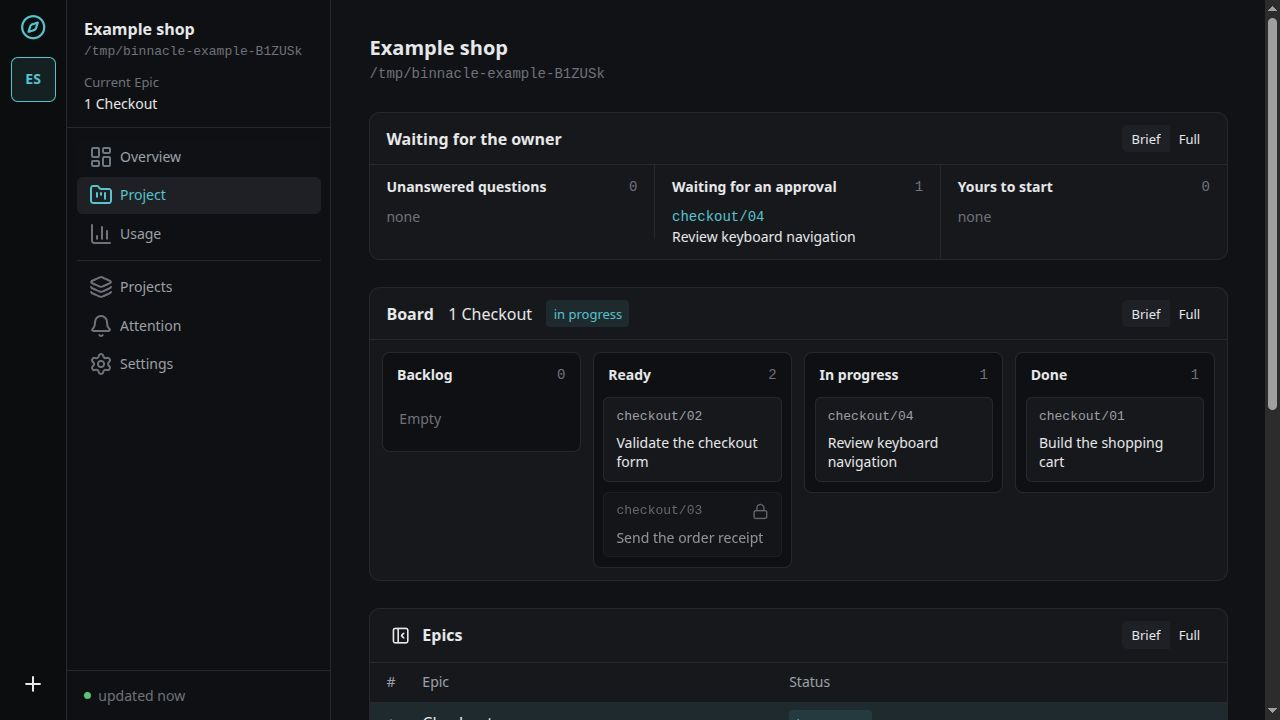
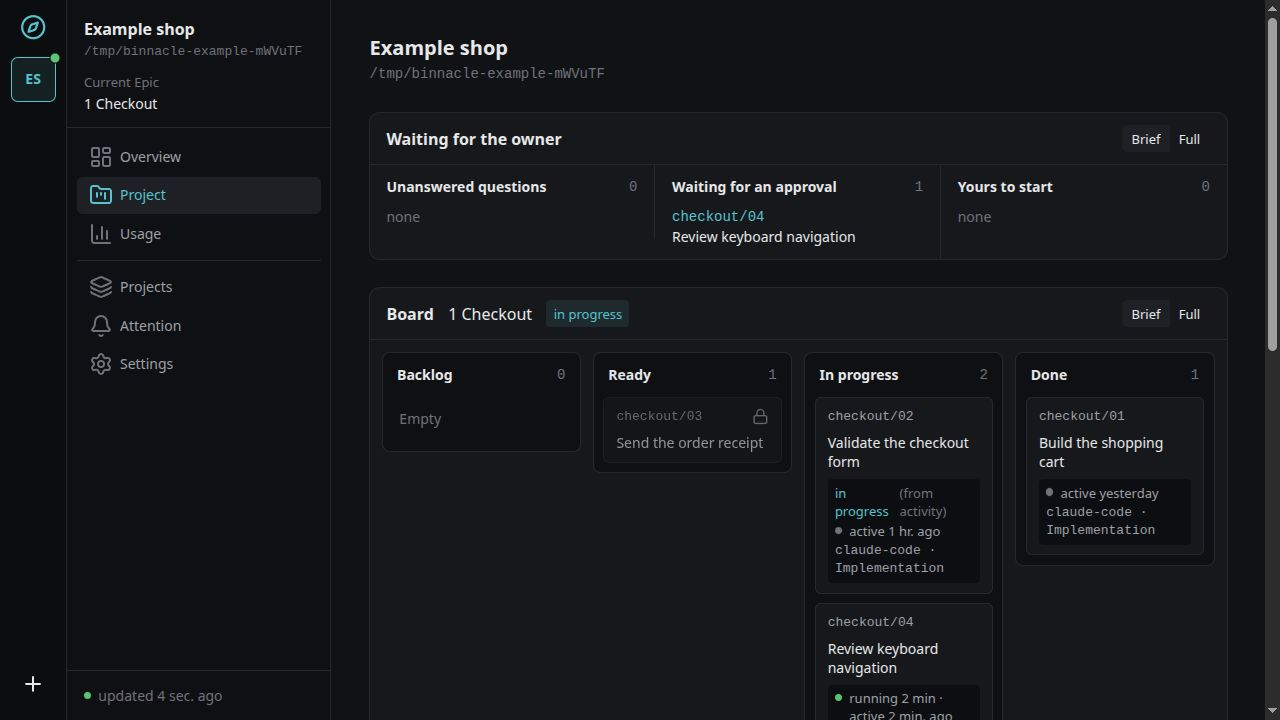
Replace the hero wave with the dashboard and restore four views

diff --git a/.vitepress/theme/LandingTour.vue b/.vitepress/theme/LandingTour.vue
@@ -1,39 +1,44 @@
 <script setup lang="ts">
 import { computed, ref } from 'vue'
 import { useData } from 'vitepress'
+import overviewLight from '../../assets/tour/overview-light.jpg'
+import overviewDark from '../../assets/tour/overview-dark.jpg'
 import boardLight from '../../assets/tour/board-light.jpg'
 import boardDark from '../../assets/tour/board-dark.jpg'
-import taskLight from '../../assets/tour/task-light.jpg'
-import taskDark from '../../assets/tour/task-dark.jpg'
-import commandLight from '../../assets/tour/command-light.jpg'
-import commandDark from '../../assets/tour/command-dark.jpg'
+import usageLight from '../../assets/tour/usage-light.jpg'
+import usageDark from '../../assets/tour/usage-dark.jpg'
+import attentionLight from '../../assets/tour/attention-light.jpg'
+import attentionDark from '../../assets/tour/attention-dark.jpg'
 
 const { lang } = useData()
 const selected = ref(0)
 const copy = computed(() => lang.value.startsWith('ru') ? {
-  kicker: 'От плана к работе', title: 'Выберите задачу. Передайте её агенту.',
-  intro: 'Пример: в интернет-магазине готова корзина. Следующий шаг — проверка формы заказа. Выберите шаг, чтобы посмотреть, как это устроено.',
+  kicker: 'Что показывает Binnacle', title: 'Задачи, расход и активность агентов.',
+  intro: 'Выберите раздел: каждый экран отвечает на свой вопрос о работе над проектом.',
   steps: [
-    { title: 'Найдите задачу, которую можно начать', text: 'Доска показывает готовность и зависимости. Проверку формы уже можно делать; отправка чека ждёт её завершения.', alt: 'Доска Example shop: проверка формы готова к старту, отправка чека заблокирована зависимостью.' },
-    { title: 'Проверьте требования и контекст', text: 'В карточке — условия задачи, критерии готовности, зависимость и ссылка на спецификацию. Всё прочитано из файлов проекта.', alt: 'Карточка проверки формы с выполненной зависимостью, ролями и критериями готовности.' },
-    { title: 'Скопируйте команду в чат агента', text: 'Вы запускаете навык в новой сессии. Binnacle передаёт агенту бриф задачи, чтобы ему не пришлось восстанавливать план по переписке.', alt: 'Команда навыка для выбранной задачи и подтверждение её копирования.' },
+    { title: 'Обзор — что делать дальше', text: 'Следующий шаг из плана, прогресс эпика и задачи, которые уже можно начать.', alt: 'Обзор Binnacle: следующий шаг, прогресс эпика, готовые задачи и текущая работа.' },
+    { title: 'Задачи — что готово и что ждёт', text: 'Доска задач с зависимостями и состояниями. Отдельно видно, где требуется ваше решение.', alt: 'Доска задач Binnacle с колонками готовности, работы и завершения.' },
+    { title: 'Расход — куда уходят токены', text: 'Входные и выходные токены, кеш, разбивка по моделям и задачам. Отсутствующие метрики отмечены как «нет данных».', alt: 'Расход Binnacle: токены по видам, моделям и задачам на демонстрационных данных.' },
+    { title: 'Внимание — что требует проверки', text: 'Проблемы по проектам, текущие и недавние запуски. Можно увидеть, где работа остановилась или требует вмешательства.', alt: 'Внимание Binnacle: проблемы проектов, текущие и недавние запуски.' },
   ],
-  sample: 'Настоящий интерфейс · пример проекта', enlarge: 'Открыть снимок крупнее ↗',
+  sample: 'Настоящий интерфейс · демонстрационные данные', enlarge: 'Открыть снимок крупнее ↗',
 } : {
-  kicker: 'From plan to implementation', title: 'Choose a task. Hand it to your agent.',
-  intro: 'An example shop has a working cart. Checkout validation is next. Select a step to see how the handoff works.',
+  kicker: 'Inside Binnacle', title: 'Tasks, token usage and agent activity.',
+  intro: 'Choose a section. Each screen answers a different question about the work.',
   steps: [
-    { title: 'Find a task that is ready to start', text: 'The board shows readiness and dependencies. Checkout validation can start; the receipt must wait until it is done.', alt: 'Example shop board: checkout validation is ready; sending the receipt is blocked by a dependency.' },
-    { title: 'Check the requirements and context', text: 'The task brings together acceptance criteria, a dependency and its specification. All read from the project files.', alt: 'Checkout validation task with its completed dependency, roles and acceptance criteria.' },
-    { title: 'Copy the command into your agent’s chat', text: 'You run the skill in a fresh session. Binnacle supplies a task brief so the agent can pick up the plan without reconstructing it from chat history.', alt: 'The skill command for the selected task, with confirmation that it was copied.' },
+    { title: 'Overview — what to do next', text: 'The next action from your plan, epic progress and tasks that are ready to start.', alt: 'Binnacle overview: next action, epic progress, ready tasks and current work.' },
+    { title: 'Tasks — what is ready and what is waiting', text: 'A task board with dependencies and states. Decisions waiting for you are shown separately.', alt: 'Binnacle task board with ready, in-progress and completed work.' },
+    { title: 'Usage — where tokens go', text: 'Input, output and cached tokens, broken down by model and task. Missing metrics stay marked as no data.', alt: 'Binnacle usage: tokens by kind, model and task using sample data.' },
+    { title: 'Attention — what needs checking', text: 'Project issues, current runs and recent activity. See where work has stalled or needs your involvement.', alt: 'Binnacle attention: project issues, current runs and recent activity.' },
   ],
-  sample: 'Actual interface · example project', enlarge: 'Open full-size screenshot ↗',
+  sample: 'Actual interface · sample data', enlarge: 'Open full-size screenshot ↗',
 })
-// CSS follows VitePress's root theme class before hydration as well as after a manual switch.
+// Follow the site's selected theme before hydration and after a manual switch.
 const images = [
+  { light: overviewLight, dark: overviewDark },
   { light: boardLight, dark: boardDark },
-  { light: taskLight, dark: taskDark },
-  { light: commandLight, dark: commandDark },
+  { light: usageLight, dark: usageDark },
+  { light: attentionLight, dark: attentionDark },
 ]
 </script>
 
@@ -58,7 +63,7 @@ const images = [
             <img :src="images[selected]![theme]" :alt="copy.steps[selected]!.alt" loading="lazy" width="1280" height="720">
           </a>
         </div>
-        <figcaption><span>0{{ selected + 1 }} / 03</span><a v-for="theme in (['light', 'dark'] as const)" :key="theme" :class="`tour-${theme}`" :href="images[selected]![theme]" target="_blank" rel="noopener">{{ copy.enlarge }}</a></figcaption>
+        <figcaption><span>0{{ selected + 1 }} / 04</span><a v-for="theme in (['light', 'dark'] as const)" :key="theme" :class="`tour-${theme}`" :href="images[selected]![theme]" target="_blank" rel="noopener">{{ copy.enlarge }}</a></figcaption>
       </figure>
     </div>
   </section>

diff --git a/.vitepress/theme/LandingHero.vue b/.vitepress/theme/LandingHero.vue
@@ -1,6 +1,8 @@
 <script setup lang="ts">
 import { computed } from 'vue'
 import { useData, withBase } from 'vitepress'
+import overviewLight from '../../assets/tour/overview-light.jpg'
+import overviewDark from '../../assets/tour/overview-dark.jpg'
 
 const { lang } = useData()
 const copy = computed(() => lang.value.startsWith('ru') ? {
@@ -8,24 +10,22 @@ const copy = computed(() => lang.value.startsWith('ru') ? {
   lead: 'Локальное приложение и набор навыков для работы с ИИ-агентами. Планируйте задачи, передавайте агентам контекст проекта и отслеживайте прогресс и расход токенов.',
   detail: 'Работает с Git, Markdown и вашим трекером. Вы выбираете задачи и запускаете агентов.',
   start: 'Быстрый старт', docs: 'Как это работает',
-  caption: 'Знания проекта сохраняются между сессиями.',
-  diagram: 'Абстрактная композиция из непрерывных слоёв: знания проекта сохраняются, пока работа продолжается.',
+  caption: 'Обзор проекта: следующий шаг, прогресс и текущая работа.',
+  sample: 'Дашборд Binnacle · демонстрационные данные',
+  enlarge: 'Открыть обзор крупнее',
   local: 'На вашем компьютере', portable: 'Markdown · Git · Трекер', control: 'Вы управляете процессом',
 } : {
   title: ['Your control panel', 'for AI development.'],
   lead: 'A local app and a set of skills for working with coding agents. Plan tasks, give agents your project context, and track progress and token usage.',
   detail: 'Works with Git, Markdown and your issue tracker. You choose the tasks and start the agents.',
   start: 'Get started', docs: 'How it works',
-  caption: 'Project knowledge stays between sessions.',
-  diagram: 'An abstract composition of continuous layers: project knowledge persists as the work moves forward.',
+  caption: 'Project overview: the next action, progress and current work.',
+  sample: 'Binnacle dashboard · sample data',
+  enlarge: 'Open the full-size overview',
   local: 'On your machine', portable: 'Markdown · Git · Tracker', control: 'You stay in control',
 })
 const prefix = computed(() => lang.value.startsWith('ru') ? '/ru' : '')
 
-// A single continuous surface; its contours carry no provider names or simulated activity.
-const contours = Array.from({ length: 25 }, (_, layer) =>
-  `M36 ${130 + layer * 5} C180 ${40 + layer * 5} 205 ${335 + layer * 4} 330 ${230 + layer * 4} S490 ${80 + layer * 5} 590 ${145 + layer * 5}`,
-)
 </script>
 
 <template>
@@ -43,25 +43,13 @@ const contours = Array.from({ length: 25 }, (_, layer) =>
       <slot />
     </div>
 
-    <figure class="context-art" aria-labelledby="context-caption">
-      <svg class="context-ribbon" viewBox="0 0 620 460" fill="none" role="img" :aria-label="copy.diagram">
-        <defs>
-          <linearGradient id="context-ink" x1="36" y1="120" x2="590" y2="350" gradientUnits="userSpaceOnUse">
-            <stop class="context-fade" />
-            <stop offset="0.28" class="context-accent" />
-            <stop offset="0.7" class="context-accent" />
-            <stop offset="1" class="context-fade" />
-          </linearGradient>
-          <linearGradient id="context-surface" x1="310" y1="90" x2="310" y2="420" gradientUnits="userSpaceOnUse">
-            <stop class="context-accent" stop-opacity="0.09" />
-            <stop offset="1" class="context-accent" stop-opacity="0" />
-          </linearGradient>
-        </defs>
-        <path d="M36 130 C180 40 205 335 330 230 S490 80 590 145 L590 265 C490 200 455 222 330 326 S180 160 36 250 Z" fill="url(#context-surface)" />
-        <path v-for="(contour, index) in contours" :key="index" :d="contour" stroke="url(#context-ink)" :stroke-width="index % 6 === 0 ? 1.8 : 0.8" :opacity="index % 6 === 0 ? 0.95 : 0.5" />
-        <path d="M95 112 L95 232 M526 118 L526 238" class="context-cross-section" />
-      </svg>
-      <figcaption id="context-caption">{{ copy.caption }}</figcaption>
+    <figure class="hero-preview">
+      <div class="demo-window">
+        <div class="demo-window-bar"><span aria-hidden="true">● ● ●</span><span>{{ copy.sample }}</span></div>
+        <a class="tour-light" :href="overviewLight" target="_blank" rel="noopener" :aria-label="copy.enlarge"><img :src="overviewLight" :alt="copy.caption" width="1280" height="720"></a>
+        <a class="tour-dark" :href="overviewDark" target="_blank" rel="noopener" :aria-label="copy.enlarge"><img :src="overviewDark" :alt="copy.caption" width="1280" height="720"></a>
+      </div>
+      <figcaption>{{ copy.caption }}</figcaption>
     </figure>
   </section>
   <div class="landing-principles">

diff --git a/apps/cli/test/site.test.ts b/apps/cli/test/site.test.ts
@@ -119,6 +119,8 @@ test('the landing explains the product and keeps installation immediately after 
     const hero = page.slice(page.indexOf('<section class="landing-hero"'), page.indexOf('</section>', page.indexOf('<section class="landing-hero"')));
     assert.ok(hero.includes('landing-badges'), `${route}: badges are outside the hero`);
     assert.ok(hero.indexOf('landing-platforms') < hero.indexOf('landing-badges'), `${route}: badges precede platform requirements`);
+    assert.ok(!hero.includes('context-ribbon'), `${route}: unrelated wave remains`);
+    for (const theme of ['light', 'dark']) assert.match(hero, new RegExp(`src="[^"]*overview-${theme}\\.`), `${route}: hero has no ${theme} product preview`);
     assert.ok(!hero.includes('npm i -g'), `${route}: redundant command in the hero`);
     const sections = [...page.matchAll(/<section[^>]*aria-labelledby="([^"]+)"/g)].map((match) => match[1]);
     assert.deepEqual(sections.slice(0, 3), ['landing-title', 'install', 'see-the-work'], `${route}: installation is not the second section`);
@@ -133,10 +135,10 @@ test('the landing explains the product and keeps installation immediately after 
   }
 });
 
-/** The example has a human-controlled sequence and matching light/dark captures. */
-test('the walkthrough provides labelled steps and both themes without an autoplay slideshow', () => {
+/** Four different dashboard pages and their full-size links follow the selected theme. */
+test('the dashboard views provide four distinct pages in both themes', () => {
   const assets = built();
-  for (const shot of ['board', 'task', 'command']) {
+  for (const shot of ['overview', 'board', 'usage', 'attention']) {
     for (const theme of ['light', 'dark'])
       assert.ok(assets.some((file) => new RegExp(`${shot}-${theme}\\.[^/]+\\.jpg$`).test(file)), `missing ${shot} ${theme} capture`);
   }
@@ -145,10 +147,10 @@ test('the walkthrough provides labelled steps and both themes without an autopla
     assert.ok(!page.includes('class="VPHero'), `${route}: oversized hero logo remains`);
     assert.ok(!page.includes('.gif'), `${route}: the old slideshow remains`);
     const steps = [...page.matchAll(/<button[^>]*aria-pressed="(true|false)"[^>]*aria-controls="tour-screen"/g)];
-    assert.equal(steps.length, 3, `${route}: no three accessible walkthrough steps`);
-    assert.deepEqual(steps.map((step) => step[1]), ['true', 'false', 'false']);
+    assert.equal(steps.length, 4, `${route}: no four accessible dashboard views`);
+    assert.deepEqual(steps.map((step) => step[1]), ['true', 'false', 'false', 'false']);
     for (const theme of ['light', 'dark'])
-      assert.match(page, new RegExp(`class="tour-${theme}"[^>]*href="[^"]*board-${theme}\\.`), `${route}: theme-matched full-size link missing`);
+      assert.match(page, new RegExp(`class="tour-${theme}"[^>]*href="[^"]*overview-${theme}\\.`), `${route}: theme-matched full-size link missing`);
     assert.ok(page.includes('id="tour-screen"'), `${route}: step controls target no content`);
   }
 });

diff --git a/.vitepress/theme/style.css b/.vitepress/theme/style.css
@@ -97,12 +97,8 @@
 .landing .landing-platforms { margin: 0; color: var(--vp-c-text-2); font-size: 11px; }
 .landing-platforms > span { padding: 0 5px; color: var(--vp-c-text-3); }
 
-.landing .context-art { min-width: 0; margin: 0; }
-.context-ribbon { display: block; width: 100%; height: auto; }
-.context-accent { stop-color: var(--vp-c-brand-1); }
-.context-fade { stop-color: var(--vp-c-brand-1); stop-opacity: 0.08; }
-.context-cross-section { stroke: var(--vp-c-brand-1); stroke-width: 0.6; opacity: 0.12; }
-.context-art figcaption { margin-top: -20px; color: var(--vp-c-text-2); text-align: center; font-size: 12px; line-height: 1.7; }
+.landing .hero-preview { min-width: 0; margin: 0; }
+.hero-preview figcaption { margin-top: 14px; color: var(--vp-c-text-2); font-size: 12px; line-height: 1.7; }
 
 .landing-principles { display: flex; align-items: center; justify-content: space-between; gap: 20px; padding: 22px 0; border-top: 1px solid var(--vp-c-divider); border-bottom: 1px solid var(--vp-c-divider); color: var(--vp-c-text-2); font-size: 12px; }
 .landing-principles > span { display: flex; align-items: center; gap: 9px; }
@@ -155,7 +151,7 @@
   .landing .landing-hero { grid-template-columns: 1fr; gap: 36px; padding-top: 52px; }
   .landing-intro { max-width: 620px; }
   .landing #landing-title { font-size: clamp(36px, 6vw, 54px); }
-  .landing .context-art { width: 100%; max-width: 540px; justify-self: center; }
+  .landing .hero-preview { width: 100%; max-width: 640px; justify-self: center; }
   .landing .landing-setup { gap: 28px; padding: 28px; }
 }
 @media (max-width: 767px) {
@@ -164,7 +160,7 @@
 @media (max-width: 600px) {
   .landing .vp-doc { padding-bottom: 40px; }
   .landing .landing-hero { padding-top: 40px; padding-bottom: 36px; }
-  .landing .context-art { display: none; }
+  .landing .hero-preview { display: none; }
   .landing .landing-lead { font-size: 17px; }
   .landing .landing-detail { font-size: 14px; }
   .landing .landing-button { gap: 12px; padding: 9px 13px; font-size: 13px; }

diff --git a/docs/specs/showcase-and-launch/issues/15-showcase-landing-graphic.md b/docs/specs/showcase-and-launch/issues/15-showcase-landing-graphic.md
@@ -6,22 +6,22 @@ Blocked by: 09, 10, 11
 Spec: `docs/specs/showcase-and-launch/spec.md`
 Roles: Developer, Reviewer
 
-**What to build:** redesign the English and Russian landing pages around a concrete explanation of the tool and a useful first-use example. This reflects the owner's revised direction on 2026-11-01; it supersedes the earlier compass/provider selector and requirement to keep every screenshot on the landing. Standard documentation stays as it is.
+**What to build:** redesign the English and Russian landing pages around a concrete explanation of the tool and a useful first-use example. This reflects the owner's revised direction on 2026-11-01; it supersedes the earlier compass/provider selector, abstract wave and three-frame task walkthrough. Standard documentation stays as it is.
 
 - [x] The hero names **Binnacle Dev** and describes a local app and agent skills: tasks, portable project context, progress and token usage. Use the favicon mark in the header. Keep the quick start and guide links visible.
-- [x] Replace the compass and provider names with restrained abstract SVG artwork. It carries no controls, simulated activity or invented telemetry; it is omitted on phones to keep installation nearby.
+- [x] Use the actual dashboard overview in the hero, with its light/dark versions. No abstract wave or provider-selector graphic. Omit the hero preview on phones to keep installation nearby; all four dashboard views remain below.
 - [x] The CI/npm/license/Node badges sit directly below the platform line in the hero's text column. Remove its non-copyable inline npm command.
 - [x] Installation is the second section: copyable commands install Binnacle, start its daemon, initialise the current project and open the dashboard. Retain the requirements and autostart port caveat.
-- [x] Replace the automatic slideshow and four-image gallery with one visitor-controlled scenario: find a ready task, check its requirements, copy its start command. Use actual English dashboard captures from a labelled example project, with no personal data or fabricated activity.
-- [x] All three steps and full-size links match the selected light/dark theme. Step controls work with pointer and keyboard and expose selection. No autoplay or new dependency.
+- [x] Show four distinct dashboard pages: Overview, Project (tasks), Usage and Attention. Use actual English captures from an explicitly labelled sample dataset. Do not count a scrolled or cropped version of the same page as a separate view.
+- [x] All four views and full-size links match the selected light/dark theme. View controls work with pointer and keyboard and expose selection. No autoplay or new dependency.
 - [x] Preserve header-aligned content, a 60/40 text/media split on desktop, text before media on phones, and equal content in both languages. At 375 px and 1440 px nothing overflows horizontally.
 - [x] Keep documentation routes and sources, the README's existing media and repository/npm links. Build the site, update its artifact checks and inspect both themes/languages in the browser.
 
 ## Capture notes
 
-`assets/tour/` contains six 1280×720 JPEG captures of the actual dashboard, taken on 2026-11-01. The isolated **Example shop** project uses the local Markdown tracker: cart `DONE`, checkout validation `READY` after the cart, receipt `READY` but waiting for validation, keyboard review `READY_FOR_REVIEW`. It has no agent runs or usage records. The shown `/tmp/binnacle-example-…` path belongs to that disposable sample, not a user's project.
+`assets/tour/` contains eight 1280×720 JPEG captures: Overview, Project, Usage and Attention in light and dark, taken on 2026-11-01. The isolated **Example shop** uses the local Markdown tracker. Three synthetic harness records in disposable Git worktrees supply sample token counts and recent activity; the UI labels these captures **sample data**. They are not measurements of Binnacle's development or claims about an agent's performance. Missing provider and reasoning fields stay unavailable.
 
-The sequence opens Project, opens checkout validation, then scrolls to its start command and copies it. Both themes show the same project and actions; colours come from the dashboard's own theme. Captures are unretouched. The temporary harness uses `startTestDaemon`, a copied dashboard build and browser-only theme/language preferences; it never reads the user's harness sessions or changes their daemon. No capture server is needed by the website.
+Each capture opens a distinct dashboard route at the top of the page. The same overview is reused explicitly in the hero. Both themes use the dashboard's own colours; captures are unretouched. The temporary harness uses `startTestDaemon`, a copied dashboard build and isolated artifact directories, never the user's daemon or sessions. The four discarded task/detail captures were removed. No capture server is needed by the website.
 
 ## Comments
 
@@ -39,10 +39,16 @@ Tickets 12 to 14 remain open by design: this ticket does not implement the indep
 
 Follow-up on the owner's layout corrections: the landing takes the header's maximum width and breakpoint-specific gutters. Browser measurements confirmed equal left and right content edges. The desktop demo has a wider left column for its description and three explanatory points, with the smaller GIF on the right; below 768 px the whole text column precedes the GIF. Both language pages changed together. The rebuilt site's 9 artifact checks pass; the local preview was restarted after the build so its asset list is current.
 
-### Revised landing verification, 2026-11-01
+### Earlier three-step revision (superseded), 2026-11-01
 
 Implemented the owner's subsequent corrections recorded above. The previous provider-selector illustration and landing media review describe a superseded version. The hero now defines the product in plain language, uses the favicon mark, keeps the badges below the platform line and leads into the installation section. One three-step walkthrough replaces the gallery and GIF on the site; the README keeps its original assets.
 
 Checks after the revision: `LANGUAGE=C pnpm test` — 1004 pass, 0 fail; `pnpm typecheck` — pass. Site artifact checks cover the new section order, badge position, copy control, three accessible steps and all six themed captures, alongside routes and privacy checks. Browser checks covered English and Russian at 375 px and 1440 px, the matching image after a manual theme change, step selection by pointer and Enter, and exact clipboard contents for all four installation commands. No horizontal overflow at either width. The preview was restarted after the final build to serve the current asset hashes.
 
 The example daemon was stopped after capture. The website needs only its static build. No dependencies, dashboard source changes, publication or merge; tickets 12 to 14 remain separate.
+
+### Four-view correction, 2026-11-01
+
+The owner rejected the unrelated wave and the near-duplicate task/detail frames. The hero now shows the actual overview; the lower selector has four distinct routes: Overview, Project, Usage and Attention. Each has light/dark captures and matching full-size links. The sample activity and token counts are explicitly labelled demonstration data. Badges, the installation section and the desktop text/media proportions stay in their agreed positions.
+
+Verified this correction with `node --test apps/cli/test/site.test.ts` (9 pass), `pnpm typecheck`, and the browser: four distinct image URLs, theme switching, keyboard activation, both languages and no horizontal overflow at 375 px. The desktop hero was inspected at 1440 px. The preview was restarted after the build. The earlier full-suite result above belongs to the preceding revision; it was not repeated for this presentation-only correction.

diff --git a/docs/specs/showcase-and-launch/spec.md b/docs/specs/showcase-and-launch/spec.md
@@ -80,9 +80,9 @@ The owner requested tickets for the independent review's five findings and a new
 - **Languages and search:** one visible language control preserves the current page at desktop and phone widths; the English-version links inside Russian guides reach their English twins; search returns results in each language. The checks exercise each locale, rather than looking for route strings in a concatenation of every index.
 - **The port statement:** both quick starts say that `BINNACLE_PORT` applies with autostart off, as the README already does. Fixing the daemon's environment propagation stays outside this epic.
 - **Registry prerequisites:** prepare the npm ownership marker `mcpName: io.github.it-bbox/binnacle` and correct the submission instructions. Published 0.7.1 has no marker; an npm-backed Registry entry therefore needs a subsequent release containing it. This epic prepares metadata and instructions; the owner cuts that release separately. Do not claim that the current release meets every prerequisite.
-- **A concrete first screen:** show *Binnacle Dev*, use the favicon mark in the header, and explain that this is a local app and skills for planning tasks, passing context to coding agents, and tracking progress and token usage. Replace the provider-selector compass and abstract slogans with clear copy and restrained, abstract native artwork. No simulated live activity or implied list of only three supported agents.
+- **A concrete first screen:** show *Binnacle Dev*, use the favicon mark in the header, and explain that this is a local app and skills for planning tasks, passing context to coding agents, and tracking progress and token usage. Replace the provider-selector compass, abstract wave and abstract slogans with clear copy and the actual dashboard overview. No simulated live activity or implied list of only three supported agents.
 - **Installation immediately after the hero:** put the linked CI/npm/license/Node badges directly below the platform line inside the hero's text column. Remove the redundant inline npm command there. Put the copyable install/setup/dashboard commands in the second section, with the requirements and port caveat nearby.
-- **One purposeful demonstration:** the owner's later direction supersedes the earlier requirement to keep a GIF and four screenshots on the landing. Show a coherent task handoff (board, requirements, start command), with visitor-controlled steps instead of the old automatic page slideshow. Capture the actual dashboard with explicitly labelled sample data in English. Every step and full-size link follows the site's selected light/dark theme. Preserve the wider text column on the left and smaller media column on the right, stacked on phones; the content edges match the header. Existing README media stays available.
+- **Four distinct dashboard views:** the owner rejected both the abstract wave and the three-frame task walkthrough, whose last two frames showed the same page. Restore Overview, Project (tasks), Usage and Attention with visitor-controlled selection. Capture the actual dashboard with explicitly labelled sample data in English. Every view and full-size link follows the site's selected light/dark theme. Reuse the overview in the hero as a concrete product preview. Preserve the wider text column on the left and smaller media column on the right, stacked on phones; the content edges match the header. Existing README media stays available.
 - **The first page only:** English and Russian offer the same experience. Keep requirements, repository/npm links and route addresses; the docs retain their standard layout and canonical Markdown sources. Native keyboard controls expose selection. No autoplay, new dependency or publication.
 
 
